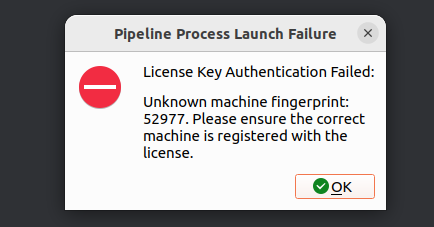
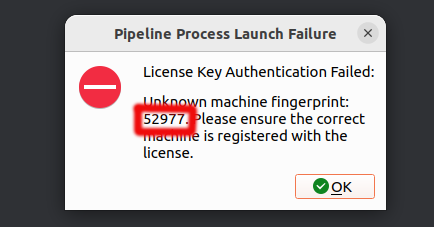
install: emphesize on images and text

Changed region(s): [[0.2995, 0.4317, 0.4793, 0.6167]]

diff --git a/docs/Ubuntu Installation.md b/docs/Ubuntu Installation.md
@@ -63,7 +63,7 @@ If the computer is not connected to the internet, it will not be able to get rec
 3. You will need to edit all interfaces that point to each camera (only once if you use a switch)
    ![install 9 - edit each network interface.png](/assets/images/installation/install%209%20-%20edit%20each%20network%20interface.png)
 4. For each interface perform these two steps:
-5. On the "identity" tag, set the MTU to 9000
+5. On the "identity" tag, set the MTU to **9000**
       ![install 10 - set the MTU.png](/assets/images/installation/install%2010%20-%20set%20the%20MTU.png)
 6. On the IPV4 tag configure the IP and the subnet for each interface.
       ![install 11 - set the ip and subnet.png](/assets/images/installation/install%2011%20-%20set%20the%20ip%20and%20subnet.png)
@@ -71,7 +71,7 @@ If the computer is not connected to the internet, it will not be able to get rec
 7. The network configure can vary depending on the site constrains. Usually we recommend the following convention:
    The ip of the interface should be 169.254.X.1 where X is a running interface ID. The subnet should be 255.255.255.0
 
-Do not configure a default gateway for these cameras. The camera should be in a closed loop/closed network.
+**Do not** configure a default gateway for these cameras. The camera should be in a closed loop/closed network.
 {: .warning }
 
 In most cases the interface that is connected to the internet (external network) should not be set.
